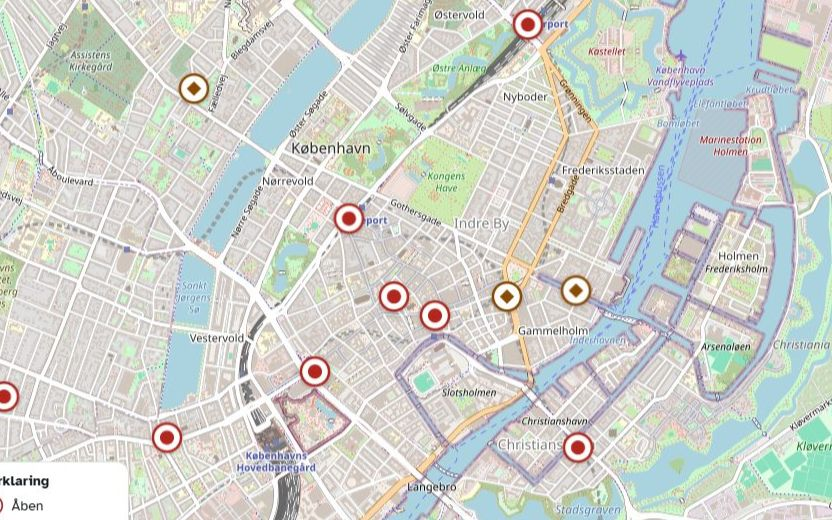
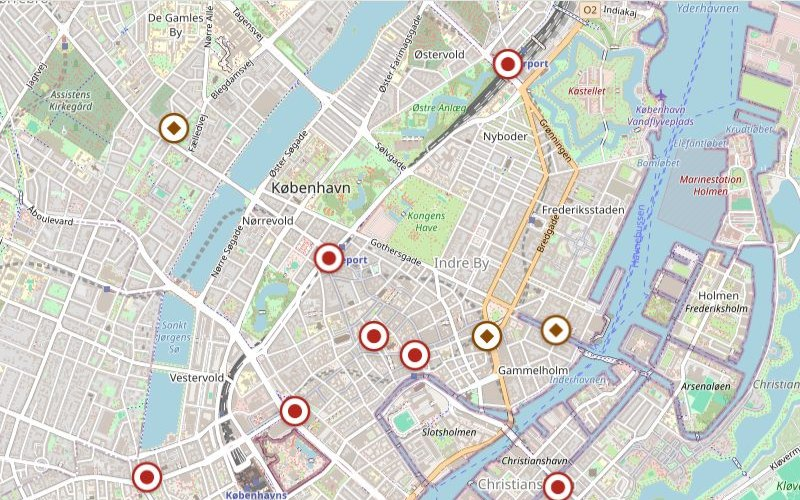
Add AI and user-research skill cards, follow system theme on first visit

diff --git a/js/main.js b/js/main.js
@@ -8,7 +8,8 @@
 //   status  "finished" or "inProgress"
 //   tech    4-7 tags (names of tech stay the same in every language)
 //   cover   image at the top of the card
-//   images  screenshots in the project view (alt text and captions are in TEXT)
+//   images  screenshots in the project view (alt text and captions are in TEXT);
+//           credit: "osm" adds the OpenStreetMap credit line under a map screenshot
 //   demo    optional interactive demo at the bottom of the project view
 const PROJECTS = [
   {
@@ -17,9 +18,9 @@ const PROJECTS = [
     status: "finished",
     tech: ["C#", ".NET", "React", "TypeScript", "PostgreSQL", "Keycloak", "xUnit"],
     code: "https://github.com/HamsaALT/barrierefri",
-    cover: { src: "images/projects/barrierefri/card.jpg", width: 832, height: 520 },
+    cover: { src: "images/projects/barrierefri/card.jpg", width: 800, height: 500 },
     images: [
-      { src: "images/projects/barrierefri/map.jpg", width: 1280, height: 800 },
+      { src: "images/projects/barrierefri/map.jpg", width: 1280, height: 800, credit: "osm" },
       { src: "images/projects/barrierefri/cases.jpg", width: 1280, height: 800 },
       { src: "images/projects/barrierefri/report-form.jpg", width: 1280, height: 900 }
     ],
@@ -43,7 +44,7 @@ const PROJECT_PLACEHOLDERS = 3;
 // Add certificates here later, e.g. { title: "Azure Fundamentals (AZ-900)", issuer: "Microsoft", year: 2027 }
 const CERTIFICATES = [];
 
-// "Skills and tools": one card per group. Names of tech are written here; items that
+// "What I work with": one card per group. Names of tech are written here; items that
 // need translating are written as { t: "key" } and their text is in TEXT (skills.items).
 const SKILLS = [
   { group: "code", items: ["Java", "Spring Boot", "C#", ".NET", "ASP.NET Core", "Python", "TypeScript", "JavaScript", "React", "Angular", "Node.js", "Express", "HTML", "CSS", "C"] },
@@ -51,7 +52,7 @@ const SKILLS = [
   { group: "testing", items: [{ t: "automatedTests" }, "JUnit 5", "xUnit", "pytest", "Vitest", "Playwright", "Testcontainers", { t: "a11yTesting" }] },
   { group: "devops", items: ["Docker", "Docker Compose", "Git", "GitHub", "GitHub Actions", "Azure DevOps"] },
   { group: "security", items: ["Keycloak", { t: "secretScanning" }, { t: "rbac" }] },
-  { group: "ai", items: ["Claude", "Claude Code", "GitHub Copilot", "ChatGPT"] },
+  { group: "ai", items: ["Claude", "Claude Code", "ChatGPT", "GitHub Copilot"] },
   { group: "users", items: [{ t: "usabilityTesting" }, { t: "userInterviews" }, { t: "figmaPrototypes" }, { t: "userCentredDesign" }, { t: "accessibleDesign" }] },
   { group: "languages", items: [{ t: "danish" }, { t: "english" }] }
 ];
@@ -102,7 +103,7 @@ const TEXT = {
       scrollHint: "SCROLL",
       aboutLabel: "About me",
       aboutP1: "I study Software Engineering at Aalborg University Copenhagen, and I like building things that solve real problems for real people. I enjoy the whole journey from idea to working software: finding out what users actually need, designing a solution in Figma, and building it with a solid backend.",
-      aboutP2: "Alongside my studies, I work as a security guard and as an on-call patient sitter in healthcare. Those jobs have taught me responsibility and calm under pressure, and many of my project ideas start there.",
+      aboutP2: "Alongside my studies, I work as a security guard. Before that, I worked in healthcare as a patient sitter at DOUS and in service and logistics at Gentofte Hospital. Those jobs have taught me responsibility and calm under pressure, and many of my project ideas start there.",
       quote: "“Turning real problems into clean, useful software.”",
       cvButton: "Ask for my CV",
       viewProjects: "View Projects",
@@ -115,7 +116,7 @@ const TEXT = {
       tabsLabel: "Portfolio sections",
       tabProjects: "Projects",
       tabCertificates: "Certificates",
-      skillsTitle: 'Skills and <span class="accent">tools</span>',
+      skillsTitle: 'What I <span class="accent">work with</span>',
       workTitle: 'Where I have <span class="accent">worked</span>',
       workNote: "Part-time, alongside my studies",
       eduTitle: "Education",
@@ -139,8 +140,8 @@ const TEXT = {
       nowText: "What I'm busy with this semester.",
       nowStudyingLabel: "Studying",
       nowStudying: "BSc in Software Engineering, Aalborg University Copenhagen",
-      nowBuildingLabel: "Building",
-      nowBuilding: "This portfolio, and my first project in C# and .NET",
+      nowBuildingLabel: "Project",
+      nowBuilding: "Working on my third semester project at AAU, a student presenter coordination system.",
       nowLearningLabel: "Learning",
       nowLearning: "C#, .NET, Azure and Python",
       nowAvailableLabel: "Available",
@@ -159,6 +160,8 @@ const TEXT = {
       seeProject: "See the project",
       seeCode: "See the code",
       seeCodeHint: " (GitHub, opens in a new tab)",
+      osmCredit: ["Map data ©", "OpenStreetMap contributors"],
+      newTab: " (opens in a new tab)",
       screenshots: "Screenshots",
       whatItDoes: "What it does",
       howItRuns: "How it runs",
@@ -205,7 +208,7 @@ const TEXT = {
         status: "Status",
         history: "History",
         reported: "Reported",
-        actions: { InProgress: "Start repair", Resolved: "Mark as fixed", Rejected: "Close with a note", Open: "Reopen" },
+        actions: { InProgress: "Start fixing", Resolved: "Mark fixed", Rejected: "Close with a note", Open: "Reopen" },
         noteLabel: "Note to the public (required)",
         noteConfirm: "Close the report",
         noteCancel: "Cancel",
@@ -252,13 +255,13 @@ const TEXT = {
       },
       items: {
         automatedTests: "Automated tests",
-        a11yTesting: "Accessibility testing (WCAG 2.2 AA)",
-        secretScanning: "Secret scanning",
-        rbac: "Role-based access",
         usabilityTesting: "Usability testing",
         userInterviews: "User interviews",
         figmaPrototypes: "Figma prototypes",
         userCentredDesign: "User-centred design",
+        a11yTesting: "Accessibility testing (WCAG 2.2 AA)",
+        secretScanning: "Secret scanning",
+        rbac: "Role-based access",
         accessibleDesign: "Accessible design",
         danish: "Danish (native)",
         english: "English (fluent)"
@@ -352,8 +355,8 @@ const TEXT = {
       navWork: "Arbejde",
       navContact: "Kontakt",
       heroLabel: '<span class="accent">✦</span> Søger studiejob og praktik',
-      heroTitle: '<span>Software-</span><span class="dim">ingeniør</span>',
-      typedLabel: "Softwarestuderende, C#- og Java-udvikler, bygger med UX for øje, bor i København",
+      heroTitle: '<span>Software-</span><span class="dim">udvikler</span>',
+      typedLabel: "Softwarestuderende, C#- og Java-udvikler, tænker i brugeroplevelse, når jeg bygger, bor i København",
       heroDesc: "Jeg bygger moderne og brugervenlig software, fra research og prototyper i Figma til solide backends. Jeg læser software på Aalborg Universitet København.",
       hintWork: '<span class="accent">↓</span> se mit arbejde længere nede',
       hintOpen: '<span class="accent">↗</span> søger studiejob og praktik',
@@ -364,7 +367,7 @@ const TEXT = {
       scrollHint: "SCROLL",
       aboutLabel: "Om mig",
       aboutP1: "Jeg læser software på Aalborg Universitet København, og jeg kan godt lide at bygge ting, der løser rigtige problemer for rigtige mennesker. Jeg kan lide hele vejen fra idé til software, der virker: at finde ud af, hvad brugerne faktisk har brug for, designe en løsning i Figma og bygge den med en solid backend.",
-      aboutP2: "Ved siden af studiet arbejder jeg som vagt og som fastvagt i sundhedsvæsenet. De job har lært mig at tage ansvar og bevare roen under pres, og mange af mine projektidéer starter dér.",
+      aboutP2: "Ved siden af studiet arbejder jeg som sikkerhedsvagt. Før det arbejdede jeg i sundhedsvæsenet, som tilkaldevagt hos DOUS og med service og logistik på Gentofte Hospital. De job har lært mig at tage ansvar og bevare roen under pres, og mange af mine projektidéer starter dér.",
       quote: "„Jeg gør rigtige problemer til enkel og brugbar software.“",
       cvButton: "Bed om mit CV",
       viewProjects: "Se projekter",
@@ -377,7 +380,7 @@ const TEXT = {
       tabsLabel: "Dele af portfolioen",
       tabProjects: "Projekter",
       tabCertificates: "Certifikater",
-      skillsTitle: 'Kompetencer og <span class="accent">værktøjer</span>',
+      skillsTitle: 'Det <span class="accent">arbejder jeg med</span>',
       workTitle: 'Hvor jeg har <span class="accent">arbejdet</span>',
       workNote: "Deltid, ved siden af studiet",
       eduTitle: "Uddannelse",
@@ -401,11 +404,11 @@ const TEXT = {
       nowText: "Det har jeg gang i dette semester.",
       nowStudyingLabel: "Studerer",
       nowStudying: "Bachelor i software, Aalborg Universitet København",
-      nowBuildingLabel: "Bygger",
-      nowBuilding: "Denne portfolio og mit første projekt i C# og .NET",
+      nowBuildingLabel: "Projekt",
+      nowBuilding: "Arbejder på mit projekt på 3. semester på AAU: et system til at koordinere studerende, der holder oplæg.",
       nowLearningLabel: "Lærer",
       nowLearning: "C#, .NET, Azure og Python",
-      nowAvailableLabel: "Ledig",
+      nowAvailableLabel: "Søger studiejob",
       nowAvailable: "10–15 timer om ugen, fleksibelt omkring eksamener",
       nowLanguagesLabel: "Sprog",
       nowLanguages: "Dansk og engelsk, begge flydende",
@@ -414,13 +417,15 @@ const TEXT = {
       overlayClose: "Luk",
       overlayCloseHint: " projektet"
     },
-    typed: ["softwarestuderende", "c#- og java-udvikler", "bygger med ux for øje", "bor i københavn"],
+    typed: ["softwarestuderende", "c#- og java-udvikler", "tænker i brugeroplevelse, når jeg bygger", "bor i københavn"],
     ui: {
       pageTitle: "Hamsa Hassan – portfolio",
       status: { finished: "Færdig", inProgress: "I gang" },
       seeProject: "Se projektet",
       seeCode: "Se koden",
       seeCodeHint: " (GitHub, åbner i en ny fane)",
+      osmCredit: ["Kortdata ©", "OpenStreetMap-bidragydere"],
+      newTab: " (åbner i en ny fane)",
       screenshots: "Skærmbilleder",
       whatItDoes: "Det kan den",
       howItRuns: "Sådan kører den",
@@ -436,7 +441,7 @@ const TEXT = {
     },
     demos: {
       barrierefri: {
-        title: "Meld en barriere, og følg den gennem sagskøen",
+        title: "Meld en barriere, og følg sagen hele vejen",
         step1: "1. Hvad er problemet?",
         step2: "2. Hvor er det?",
         // Labels and hints from Barrierefri's own da.json.
@@ -460,7 +465,7 @@ const TEXT = {
         needCategory: "Vælg, hvad problemet er (trin 1).",
         needPlace: "Sæt nålen på kortet (trin 2).",
         sent: (cat, place) => `Meldingen er sendt: ${cat}, ${place}. Status: Åben.`,
-        queue: "Sagskø",
+        queue: "Sagsoversigt",
         place: "Sted",
         deadline: "Frist",
         days: n => `${n} ${n === 1 ? "dag" : "dage"} (Barrierefris eget mål for denne kategori)`,
@@ -488,8 +493,8 @@ const TEXT = {
         stale: "Du har ændret koden. Tryk på Scan igen for at opdatere resultatet.",
         highlighted: "Koden med fundene markeret",
         findings: "Fund",
-        severity: { critical: "kritisk", high: "høj", medium: "middel" },
-        count: (sev, n) => `${n} ${n === 1 ? { critical: "kritisk", high: "høj", medium: "middel" }[sev] : { critical: "kritiske", high: "høje", medium: "middel" }[sev]}`,
+        severity: { critical: "kritisk", high: "høj", medium: "mellem" },
+        count: (sev, n) => `${n} ${n === 1 ? { critical: "kritisk", high: "høj", medium: "mellem" }[sev] : { critical: "kritiske", high: "høje", medium: "mellem" }[sev]}`,
         lineCol: (l, c) => `linje ${l}, kolonne ${c}`,
         value: "værdi",
         rules: {
@@ -514,13 +519,13 @@ const TEXT = {
       },
       items: {
         automatedTests: "Automatiserede tests",
-        a11yTesting: "Tilgængelighedstest (WCAG 2.2 AA)",
-        secretScanning: "Scanning efter hemmeligheder",
-        rbac: "Rollebaseret adgang",
         usabilityTesting: "Brugertest",
         userInterviews: "Brugerinterviews",
         figmaPrototypes: "Prototyper i Figma",
         userCentredDesign: "Brugercentreret design",
+        a11yTesting: "Tilgængelighedstest (WCAG 2.2 AA)",
+        secretScanning: "Find nøgler og adgangskoder i koden",
+        rbac: "Rollebaseret adgang",
         accessibleDesign: "Tilgængeligt design",
         danish: "Dansk (modersmål)",
         english: "Engelsk (flydende)"
@@ -529,7 +534,7 @@ const TEXT = {
     work: {
       months: ["jan.", "feb.", "mar.", "apr.", "maj", "jun.", "jul.", "aug.", "sep.", "okt.", "nov.", "dec."],
       now: "nu",
-      titles: { patientSitter: "Fastvagt", serviceLogistics: "Service og logistik", securityGuard: "Sikkerhedsvagt" },
+      titles: { patientSitter: "Tilkaldevagt", serviceLogistics: "Service og logistik", securityGuard: "Sikkerhedsvagt" },
       places: { zealand: "Sjælland", gentofte: "Gentofte", copenhagen: "København" },
       education: { bsc: "Bachelor i software", htx: "HTX (Matematik A, Kemi A, Engelsk A)" },
       schools: { aau: "Aalborg Universitet København", hco: "H.C. Ørsted Gymnasium" }
@@ -540,7 +545,7 @@ const TEXT = {
         kind: "App til at melde barrierer for tilgængelighed, eget projekt",
         intro: [
           "Med Barrierefri kan alle melde barrierer for tilgængelighed på et kort, fx en elevator i stykker eller en fodgængerovergang uden lydsignal, og andre kan bekræfte, om de stadig er der.",
-          "Den er til folk, der har brug for at tjekke en rute, før de tager af sted, og til de kommuner og trafikselskaber, der udbedrer barriererne. Det er mit eget projekt."
+          "Barrierefri er til folk, der har brug for at tjekke en rute, før de tager af sted, og til de kommuner og trafikselskaber, der udbedrer barriererne. Det er mit eget projekt."
         ],
         coverAlt: "Barrierefris kort over det centrale København med runde markører for åbne meldinger og ruderformede markører for barrierer under udbedring.",
         images: [
@@ -550,7 +555,7 @@ const TEXT = {
           },
           {
             alt: "En tabel over sager med kolonnerne melding, status, frist, ansvarlig, bekræftelser og handlinger. Hver række viser et mærke som \"30 dage over fristen\" og knapper til at starte udbedringen eller markere sagen som udbedret.",
-            caption: "Sagskøen for medarbejdere, sorteret så de sager, der er længst over fristen, står øverst."
+            caption: "Sagsoversigten for medarbejdere, sorteret så de sager, der er længst over fristen, står øverst."
           },
           {
             alt: "Trin 1 i meldeformularen, \"Hvad er problemet?\", med syv store valgkort som \"Elevator i stykker\" og \"Ingen rampe\", og starten på trin 2 med et kort nedenunder.",
@@ -561,7 +566,7 @@ const TEXT = {
           { title: "Meld i tre trin", text: "En melding har tre trin: hvad, hvor og detaljer. Stedet vælges ved at flytte kortet under et fast trådkors, og det virker også med piletasterne." },
           { title: "Fanger dubletter", text: "Mens du udfylder formularen, foreslår appen eksisterende meldinger af samme type inden for 30 meter. Serveren tjekker igen, når meldingen bliver sendt." },
           { title: "Bekræftelser fra andre", text: "Folk markerer en barriere som \"stadig der\" eller \"udbedret\" med to store knapper. En sikkerhedsscore og et \"sandsynligvis udbedret\"-flag viser medarbejderne, hvor de skal kigge først." },
-          { title: "Sagskø med frister", text: "Hver kategori har sin egen frist, fra 2 dage for en elevator i stykker til 90 for en manglende rampe. Sager over fristen kommer først, med det antal dage, de er forsinket." }
+          { title: "Sagsoversigt med frister", text: "Hver kategori har sin egen frist, fra 2 dage for en elevator i stykker til 90 for en manglende rampe. Sager over fristen kommer først, med det antal dage, de er forsinket." }
         ],
         runs: [
           { label: "Tjenester", text: "Fem i Docker Compose: PostgreSQL 16, Keycloak, Azurite (lokal Azure Blob Storage), .NET 10-API'et og React-appen bag nginx." },
@@ -575,7 +580,7 @@ const TEXT = {
         kind: "Scanner til hemmeligheder i git-repositories, eget projekt",
         intro: [
           "leakwatch finder API-nøgler, adgangskoder og andre hemmeligheder i din kode og i hele din git-historik. Den kører som kommandolinjeværktøj, som git pre-commit hook og som GitHub Action, uden afhængigheder ud over Pythons standardbibliotek.",
-          "Den er til udviklere og studiegrupper, der vil stoppe en hemmelighed, før den bliver committet, eller finde en, der blev committet og senere slettet. Det er mit eget projekt, og jeg startede det, efter at jeg fandt en databasenøgle i en gruppes repository på universitetet."
+          "leakwatch er til udviklere og studiegrupper, der vil stoppe en hemmelighed, før den bliver committet, eller finde en, der blev committet og senere slettet. Det er mit eget projekt, og jeg startede det, efter at jeg fandt en databasenøgle i en gruppes repository på universitetet."
         ],
         coverAlt: "Terminaloutput fra leakwatch scan: en Stripe live secret key og et GitHub-token markeret critical og en committet .env-fil markeret high. Hver værdi er skjult efter de første fire tegn.",
         images: [
@@ -586,8 +591,8 @@ const TEXT = {
         ],
         features: [
           { title: "Scanner hele historikken", text: "Med `--history` læser den alle commits på alle branches og scanner kun de linjer, hver commit tilføjede. Hvert fund peger på den commit, der tilføjede hemmeligheden, for den forsvinder ikke fra git, bare fordi den bliver slettet senere." },
-          { title: "Stopper committen", text: "`leakwatch install-hook` tilføjer et pre-commit hook, der scanner det, der er staged. En hemmelighed, du har rettet på disken, men ikke har staget igen, bliver stadig fanget." },
-          { title: "Holder falske alarmer nede", text: "Et entropitjek, et filter for pladsholdere og afkodning af tokens skelner rigtige nøgler fra værdier som `password123` eller `<YOUR_API_KEY>`. Det er også afkodningen, der skelner en harmløs Supabase anon-nøgle fra en service_role-nøgle." }
+          { title: "Blokerer commit'et", text: "`leakwatch install-hook` tilføjer et pre-commit hook, der scanner det, der er staged. Har du slettet en hemmelighed i filen, men ikke kørt git add igen, ligger den stadig i det, der bliver committet, og den bliver fanget." },
+          { title: "Giver få falske alarmer", text: "Et entropitjek, et filter for pladsholdere og afkodning af tokens skelner rigtige nøgler fra værdier som `password123` eller `<YOUR_API_KEY>`. Det er også afkodningen, der skelner en harmløs Supabase anon-nøgle fra en service_role-nøgle." }
         ],
         runs: [
           { label: "Installation", text: "pip install direkte fra GitHub. Kræver Python 3.10 eller nyere og git til `--staged` og `--history`." },
@@ -790,8 +795,8 @@ function projectView(p) {
       <svg viewBox="0 0 24 24" fill="none" stroke="currentColor" stroke-width="2" stroke-linecap="round" stroke-linejoin="round" aria-hidden="true"><path d="M7 17 17 7"/><path d="M8 7h9v9"/></svg></a>
     ${p.images && p.images.length ? section(ui.screenshots, `<div class="ov-shots">${p.images.map((img, i) => `
       <figure>
-        <img src="${esc(img.src)}" width="${img.width}" height="${img.height}" alt="${esc(tx.images[i].alt)}" decoding="async">
-        <figcaption>${rich(tx.images[i].caption)}</figcaption>
+        <img src="${esc(img.src)}" width="${img.width}" height="${img.height}" alt="${esc(tx.images[i].alt)}" loading="lazy" decoding="async">
+        <figcaption>${rich(tx.images[i].caption)}${img.credit === "osm" ? `<small class="ov-credit">${esc(ui.osmCredit[0])} <a href="https://www.openstreetmap.org/copyright" target="_blank" rel="noopener noreferrer">${esc(ui.osmCredit[1])}<span class="sr-only">${esc(ui.newTab)}</span></a></small>` : ""}</figcaption>
       </figure>`).join("")}</div>`) : ""}
     ${section(ui.whatItDoes, `<div class="ov-features">${tx.features.map(f => `
       <div class="ov-feature"><h4>${esc(f.title)}</h4><p>${rich(f.text)}</p></div>`).join("")}</div>`)}

diff --git a/index.html b/index.html
@@ -8,12 +8,21 @@
 <title>Hamsa Hassan Portfolio</title>
 <meta name="description" content="Portfolio of Hamsa Hassan, Software Engineering student in Copenhagen.">
 <meta name="theme-color" content="#0b0b0c">
+<link rel="icon" href="images/favicon.svg" type="image/svg+xml">
+<meta property="og:type" content="website">
+<meta property="og:url" content="https://hamsaalt.github.io/">
+<meta property="og:title" content="Hamsa Hassan Portfolio">
+<meta property="og:description" content="Portfolio of Hamsa Hassan, Software Engineering student in Copenhagen.">
 <!-- Sets the theme before the CSS loads, so the page never shows the wrong colours first.
-     Dark is always the default; light only shows if the visitor chose it with the button. -->
+     The visitor's own choice (saved by the button) wins; on a first visit it follows the
+     system setting, and dark is the default when the system doesn't ask for light. -->
 <script>
   (function () {
-    var theme = "dark";
-    try { if (localStorage.getItem("theme") === "light") theme = "light"; } catch (e) {}
+    var theme = null;
+    try { theme = localStorage.getItem("theme"); } catch (e) {}
+    if (theme !== "light" && theme !== "dark") {
+      theme = window.matchMedia && window.matchMedia("(prefers-color-scheme: light)").matches ? "light" : "dark";
+    }
     document.documentElement.setAttribute("data-theme", theme);
   })();
 </script>
@@ -223,11 +232,11 @@
 
           <p class="connect-title" data-i18n="connectTitle"></p>
           <div class="socials">
-            <a class="social" href="https://www.linkedin.com/in/YOUR-PROFILE" target="_blank" rel="noopener">
+            <a class="social" href="https://www.linkedin.com/in/hamsa-hassan-85b3a3378/" target="_blank" rel="noopener noreferrer">
               <svg viewBox="0 0 24 24" fill="currentColor"><path d="M20.45 20.45h-3.56v-5.57c0-1.33-.02-3.04-1.85-3.04-1.85 0-2.14 1.45-2.14 2.94v5.67H9.35V9h3.41v1.56h.05c.48-.9 1.64-1.85 3.37-1.85 3.6 0 4.27 2.37 4.27 5.46v6.28zM5.34 7.43a2.06 2.06 0 1 1 0-4.13 2.06 2.06 0 0 1 0 4.13zM7.12 20.45H3.56V9h3.56v11.45zM22.22 0H1.77C.79 0 0 .77 0 1.73v20.54C0 23.23.79 24 1.77 24h20.45c.98 0 1.78-.77 1.78-1.73V1.73C24 .77 23.2 0 22.22 0z"/></svg>
               <span><strong>LinkedIn</strong><small>Hamsa Hassan</small></span>
             </a>
-            <a class="social" href="https://github.com/YOUR-USERNAME" target="_blank" rel="noopener">
+            <a class="social" href="https://github.com/HamsaALT" target="_blank" rel="noopener noreferrer">
               <svg viewBox="0 0 24 24" fill="currentColor"><path d="M12 .3a12 12 0 0 0-3.8 23.4c.6.1.8-.3.8-.6v-2c-3.3.7-4-1.6-4-1.6-.6-1.4-1.4-1.8-1.4-1.8-1-.7.1-.7.1-.7 1.2.1 1.8 1.2 1.8 1.2 1 1.8 2.8 1.3 3.5 1 0-.8.4-1.3.7-1.6-2.7-.3-5.5-1.3-5.5-6 0-1.2.5-2.3 1.3-3.1-.2-.4-.6-1.6 0-3.2 0 0 1-.3 3.4 1.2a11.5 11.5 0 0 1 6 0C17.3 4.6 18.3 5 18.3 5c.7 1.6.2 2.8.1 3.2.8.8 1.3 1.9 1.3 3.1 0 4.7-2.8 5.7-5.5 6 .5.4.9 1.1.9 2.2v3.3c0 .3.1.7.8.6A12 12 0 0 0 12 .3"/></svg>
               <span><strong>GitHub</strong><small data-i18n="githubSmall"></small></span>
             </a>

diff --git a/css/style.css b/css/style.css
@@ -78,7 +78,7 @@
   --accent-label: #ad4900;
   --accent-ink: #ffffff;
   --accent-soft: rgba(173,73,0,.08);
-  --accent-line: rgba(173,73,0,.5);
+  --accent-line: rgba(173,73,0,.75); /* 3:1 or more against white and the panels, for borders that show state */
   --backdrop: rgba(20,20,20,.5);
   --nav-bg: rgba(255,255,255,.82);
   --intro-bg: #ffffff;
@@ -420,6 +420,8 @@ html.ov-open body { padding-right: var(--scrollbar, 0); }
 .ov-shots figure { margin: 0; display: grid; gap: .6rem; align-content: start; }
 .ov-shots img { width: 100%; height: auto; border-radius: 12px; border: 1px solid var(--line-2); }
 .ov-shots figcaption { font-size: .88rem; color: var(--muted); }
+.ov-credit { display: block; margin-top: .3rem; font-size: .78rem; }
+.ov-credit a { display: inline-block; padding-block: .75rem; margin-block: -.75rem; text-underline-offset: 2px; } /* 44 px tall target without moving the text */
 .ov-features { display: grid; gap: 1rem; }
 .ov-feature { display: grid; gap: .45rem; align-content: start; padding: 1.2rem 1.3rem; border: 1px solid var(--line); border-radius: 14px; background: var(--panel); }
 .ov-feature h4 { margin: 0; font-size: 1rem; font-weight: 600; }
@@ -540,7 +542,7 @@ html.ov-open body { padding-right: var(--scrollbar, 0); }
   .bf-demo { grid-template-columns: 1.05fr 1fr; }
   .bf-mapwrap { position: sticky; top: 90px; }
 }
-/* ---------- Skills and tools ---------- */
+/* ---------- What I work with ---------- */
 .skill-grid { display: grid; grid-template-columns: 1fr; gap: 1.2rem; margin-top: 3rem; }
 .skill-card { display: grid; gap: .9rem; align-content: start; padding: 1.4rem 1.5rem; border: 1px solid var(--line); border-radius: var(--radius); background: var(--panel); }
 .skill-card h3 { font-size: 1.05rem; font-weight: 600; }
@@ -638,6 +640,7 @@ footer .mono { letter-spacing: .04em; }
   .nav-wrap .container { width: calc(100% - 1rem); }
   .nav { padding: .55rem .55rem .55rem 1rem; gap: .6rem; }
   .now li { grid-template-columns: 1fr; gap: .2rem; }
+  .typing { min-height: 3.2em; } /* the longest typed phrase can wrap to two lines here; reserving both stops the text below from jumping */
   .tabs { border-radius: 16px; }
   .tab { font-size: .82rem; }
   .overlay { padding: 0; }
